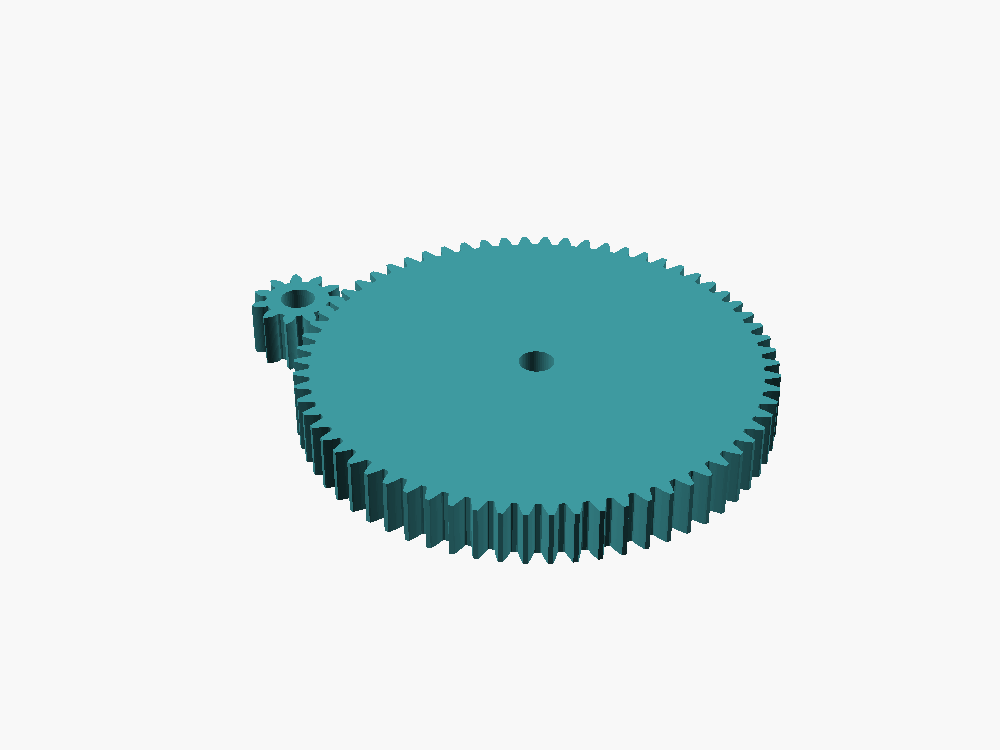
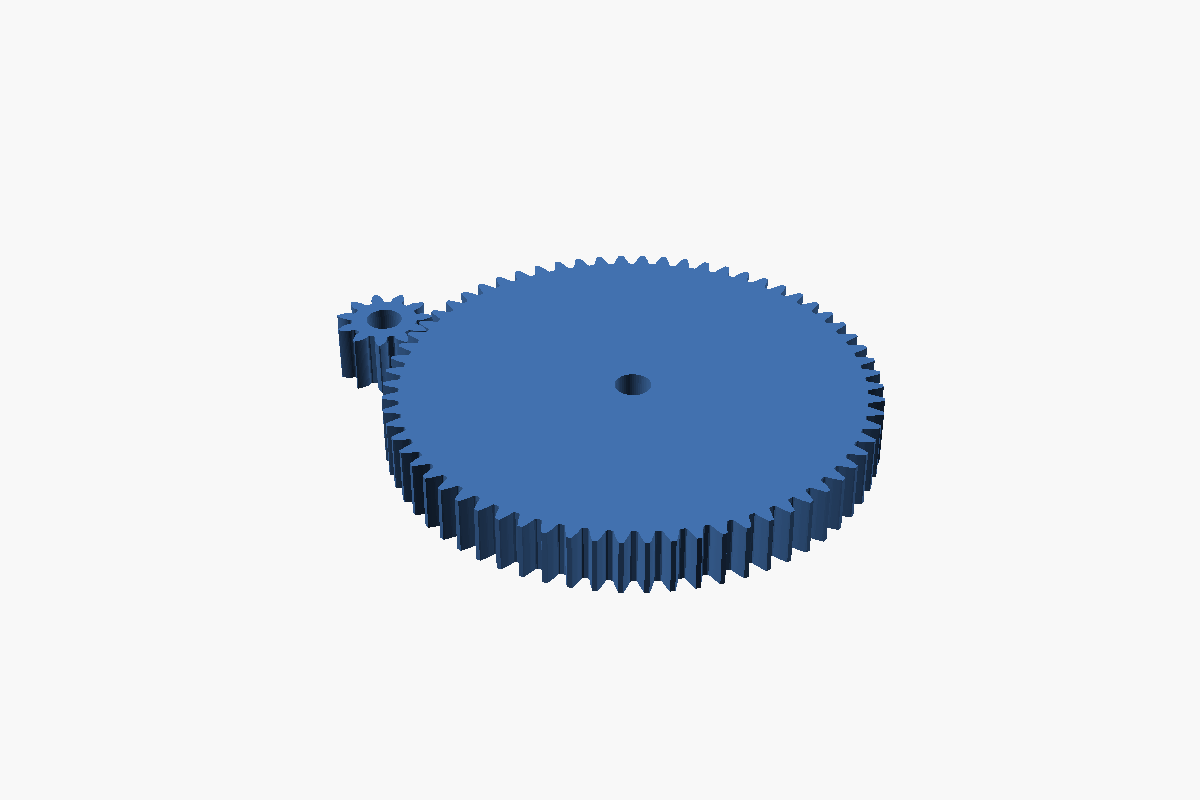
README: "What it catches" demo (gear centre-distance jam), refresh counts
- Top of README shows the real P29 case: 38.5 mm (m*(z1+z2)/2) jams,
  BOSL2 gear_dist() 38.845 mm meshes with 0.139 mm backlash; real FAIL output.
- Counts updated: 120 tests, 26 checkers/rules, ~145 incidents; strength gap
  stated precisely.
- gear_reduction example README and preview.png follow the P29 fix.

Changed region(s): [[0.248, 0.3067, 0.806, 0.7667]]

diff --git a/README.md b/README.md
@@ -4,9 +4,28 @@
 design, from a single part to a multi-part mechanical assembly. The model is checked
 automatically before export: dimensions, holes, collisions, screws and full motion sweeps.
 
-![Example: single-stage spur gear reduction](scad-modeler/examples/gear_reduction/preview.png)
+## What it catches
 
-*A working example: [`scad-modeler/examples/gear_reduction/`](scad-modeler/examples/gear_reduction/).*
+![Left: gears at 38.5 mm, a tooth tip cuts into the pinion. Right: gears at 38.845 mm with backlash.](scad-modeler/examples/gear_reduction/jam_vs_gear_dist.png)
+
+An 11-tooth pinion and a 66-tooth gear, module 1. The textbook centre distance is
+m·(z1+z2)/2 = **38.5 mm**, and that is what this repository's own example used, with a
+renders-fine, looks-fine model. But BOSL2 automatically profile-shifts small pinions, so the real
+distance is **38.845 mm**. At 38.5 mm the printed gears jam (left, red). The check finds it before
+anything is printed:
+
+```text
+$ bash validate_scad.sh --all
+FAIL: gear axis / centre distance check (before any sweep runs):
+  - centre distance pinion<->spur: axes are 38.500 mm apart (measured axes), BOSL2
+    gear_dist(module 1.0, 11T/66T, profile shift auto, helical 0.0) = 38.845 mm (-0.345 mm).
+CHECK_RESULT mechanics=FAIL
+```
+
+At 38.845 mm with the teeth phased to interleave, a 202-position motion sweep finds 0.139 mm of
+backlash and no contact (right). This was a real bug in the example (fixed in P29, logged as
+`INC-2026-11-27-01`); the example now runs in the regression suite so it cannot rot again.
+Full example: [`scad-modeler/examples/gear_reduction/`](scad-modeler/examples/gear_reduction/).
 
 A *skill* is a folder of instructions and scripts that Claude Code loads when a request matches
 it. You ask in plain language ("design a wall bracket for a 40 mm pipe", "a 6:1 gearbox for
@@ -17,16 +36,16 @@ checks below before it reports the part as done.
 
 **Beta, used on real projects.** Developed since 2026-08 and used on enclosures, gearboxes,
 racks, figurines and a large CNC machine frame. Every check exists because a real model passed
-review and was still wrong; each such case is logged in [`INCIDENTS.json`](INCIDENTS.json) (~120 entries).
+review and was still wrong; each such case is logged in [`INCIDENTS.json`](INCIDENTS.json) (~145 entries).
 
 | Measure | Value |
 |---|---|
-| Regression suite (`scad-modeler/tests/run_all.sh`) | 95 tests: 94 fixtures + GenKit suite (golden parts, 40 mutants), all green; CI on every push |
+| Regression suite (`scad-modeler/tests/run_all.sh`) | 120 tests: 119 fixtures + GenKit suite (golden parts, 40 mutants), all green; CI on every push |
 | Planted-defect benchmark ([`bench/PIPELINE_BENCH_2026-11-01.md`](bench/PIPELINE_BENCH_2026-11-01.md)) | 35/35 defects caught by the named check, 0/9 false alarms on clean controls |
 | Agent evaluation ([`bench/AGENT_EVAL_2026-11-01.md`](bench/AGENT_EVAL_2026-11-01.md)) | 15/15 tasks passed (n = 3 × 5) |
-| Checkers | 23 `check_*.py` scripts + motion sweep, wired into one command (`validate_scad.sh`) and a 23-rule gate |
+| Checkers | 26 `check_*.py` scripts + motion sweep, wired into one command (`validate_scad.sh`) and a 26-rule gate |
 
-Known gaps (see [Limits](#limits)): no strength calculations, no slicer gates, no measured PETG
+Known gaps (see [Limits](#limits)): strength only for heat-set insert holes and simple beams, no slicer gates, no measured PETG
 tolerances yet, motion checking samples rather than proves. Planned work is tracked in
 `NEXT.md` (in Lithuanian, the maintainer's working notes).
 
@@ -284,7 +303,7 @@ verdict does not block; it blocks at most once per stop. Add to `~/.claude/setti
 ## Development
 
 ```bash
-bash scad-modeler/tests/run_all.sh   # 95 tests, a few minutes
+bash scad-modeler/tests/run_all.sh   # 120 tests, a few minutes
 bash scripts/test_install.sh         # installer guard
 bash scripts/test_plugin.sh          # plugin install from a local marketplace (needs the claude CLI)
 ```
@@ -311,9 +330,10 @@ Not implemented at all:
 - **assembly-sequence verification** — a mechanism can pass every check here
   and still be physically un-buildable (see `SKILL.md` §0.6's belt-drive
   incident);
-- **load/strength calculations** — without material data, that would be
-  arithmetic dressed up as engineering, and printed parts are anisotropic
-  in a way generic values don't capture;
+- **general load/strength analysis** — `check_strength.py` covers heat-set
+  insert holes and simple beam bending from a declared `loads.json`; anything
+  beyond that (FEA, fatigue, layer adhesion) is not modelled, and printed parts
+  are anisotropic in a way generic values don't capture;
 - **slicer printability gates** — no mainstream slicer documents
   thin-wall/non-manifold warnings as reachable through a CLI.
 

diff --git a/scad-modeler/examples/gear_reduction/README.md b/scad-modeler/examples/gear_reduction/README.md
@@ -17,10 +17,10 @@ bash ../../scripts/validate_scad.sh --all
 ```
 
 Expected: every part renders as one connected body, both declared 5mm bores
-measure correctly, the declared gear-mesh contact is checked against a real
-measured penetration depth (not a guess — see the comment in `joints.json`),
-and `motion_sweep.py` sweeps the full 360° rotation and confirms no
-unexpected interference anywhere in the cycle. Both parts declare their size and
+measure correctly, each gear turns about its real axis, the centre distance
+equals BOSL2 `gear_dist()` (38.845 mm, printed as `OK: centre distance ...`),
+and `motion_sweep.py` sweeps the full 360° rotation and finds 0.139 mm of
+backlash and no contact anywhere in the cycle. Both parts declare their size and
 through-holes, so `dimensions`, `topology` and `declarations` PASS. Exit code 0, ending in
 `All executed checks passed (...)`.
 
@@ -49,16 +49,18 @@ python3 ../../scripts/check_rules.py --project-dir .
   gear module positioned through a plain (non-BOSL2-aware) `at()` can't
   otherwise see — read the comment at the top of the file for the full
   explanation.
-- **`joints.json`** — a declared `gear_mesh` contact whose
-  `expected_interference_mm` range and `multi_region_ok: true` flag were
-  both set from an *actual measurement* of this exact gear pair (see the
-  comment in the file), not guessed: real involute teeth interpenetrate
-  more deeply than a simple press-fit backlash range, and a standard
-  involute pair's contact ratio means more than one tooth pair is
-  legitimately in contact at once.
-- **The full validation chain** — connectivity, bore measurement,
-  declared-contact penetration depth, multi-region contact detection, and
-  a full motion sweep, all wired into one `validate_scad.sh --all` call.
+- **`joints.json`** — a declared `gear_mesh` contact with `"module": 1.0`,
+  so the centre distance is checked against BOSL2 `gear_dist()`, and an
+  interference window of 0-0.05 mm: correctly spaced and phased teeth do
+  not touch. Until P29 (2026-11-27) this example used the textbook
+  m·(z1+z2)/2 = 38.5 mm and a 0.5-2.0 mm window that hid the resulting jam;
+  the 11T pinion gets an automatic profile shift in BOSL2, so the real
+  distance is 38.845 mm. `params.scad` also sets each gear's `gear_spin` so
+  a tooth faces a gap.
+- **The full validation chain** — connectivity, bore measurement, gear
+  axes and centre distance, declared-contact penetration depth, and a full
+  motion sweep, all wired into one `validate_scad.sh --all` call. The
+  example runs in the regression suite (fixture `example_gear_reduction`).
 
 ## What this deliberately skips
 
